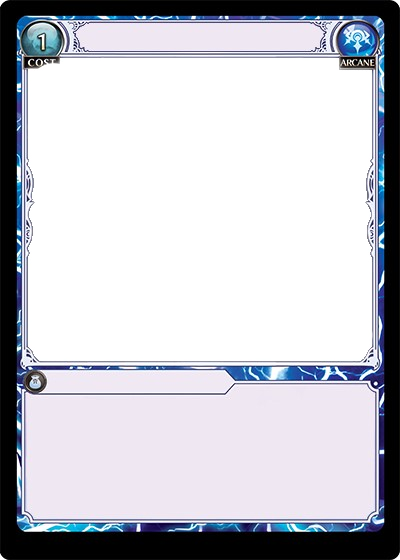
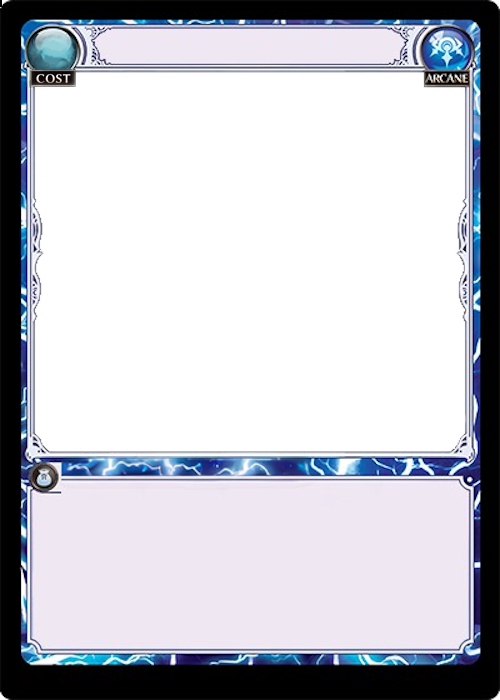
fix the art stretching bug

diff --git a/index.html b/index.html
@@ -95,8 +95,7 @@
 
     #cardArt {
       position:relative;
-      width: 450px;
-      height: 400px;
+
     }
 
     #cardElementBackground {
@@ -436,7 +435,7 @@
 
     <div id="cardContainer">
       <div id="cardArtClip">
-        <img id="cardArt" src="art/defaultart.jpg">
+        <img id="cardArt" width="450" src="art/defaultart.jpg">
       </div>
       <div class="cardSection" id="cardElementBackground"></div>
       <div class="cardSection" id="cardElement"></div>
@@ -676,6 +675,7 @@
             var file = e.originalEvent.srcElement.files[i];
             
             var img = document.createElement("img");
+
             var reader = new FileReader();
             reader.onloadend = function() {
                  img.src = reader.result;
